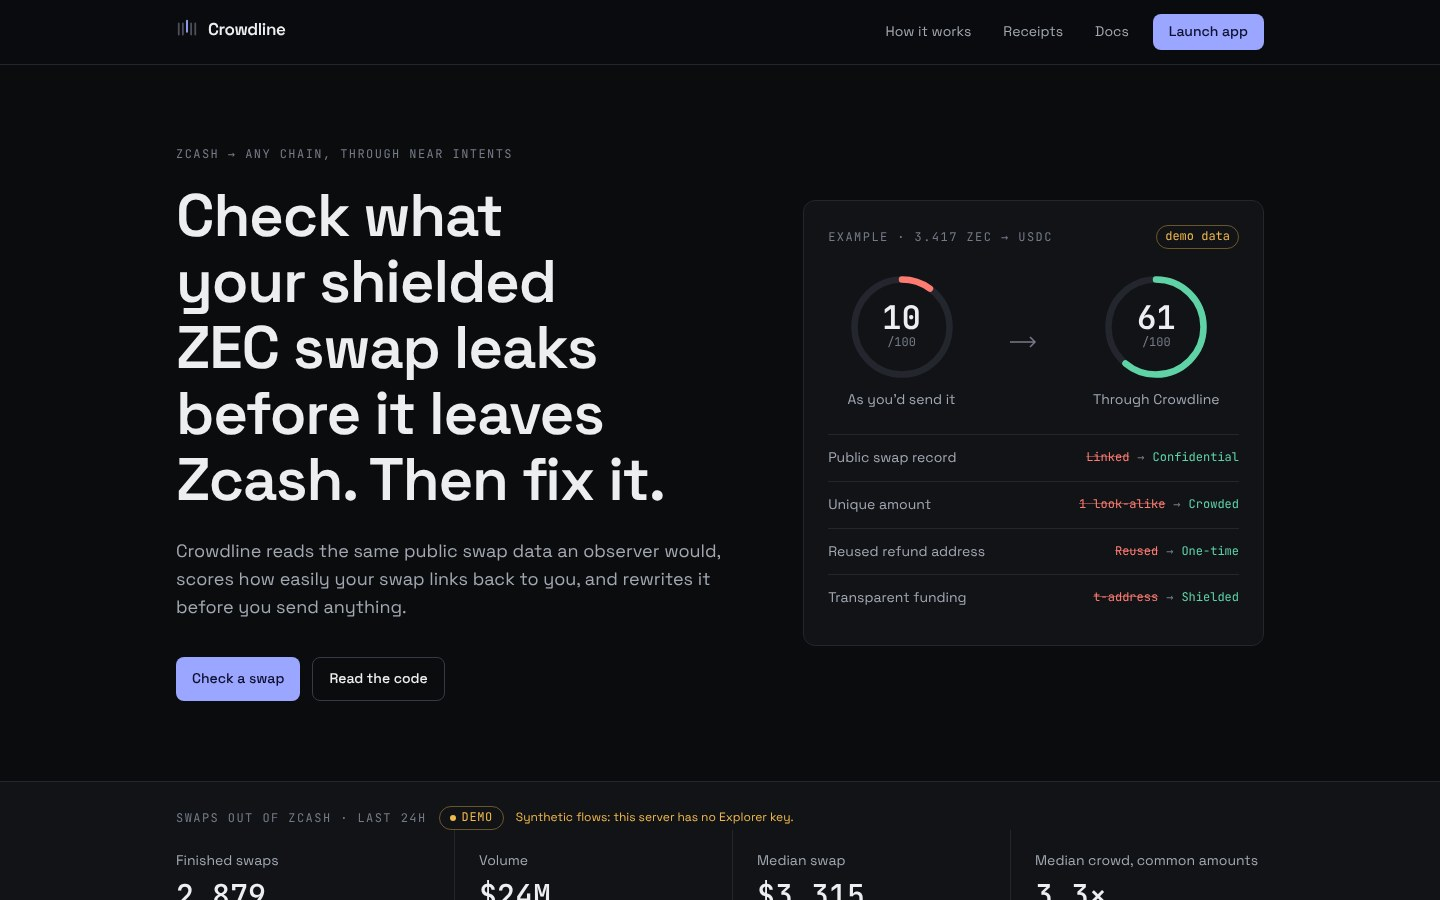
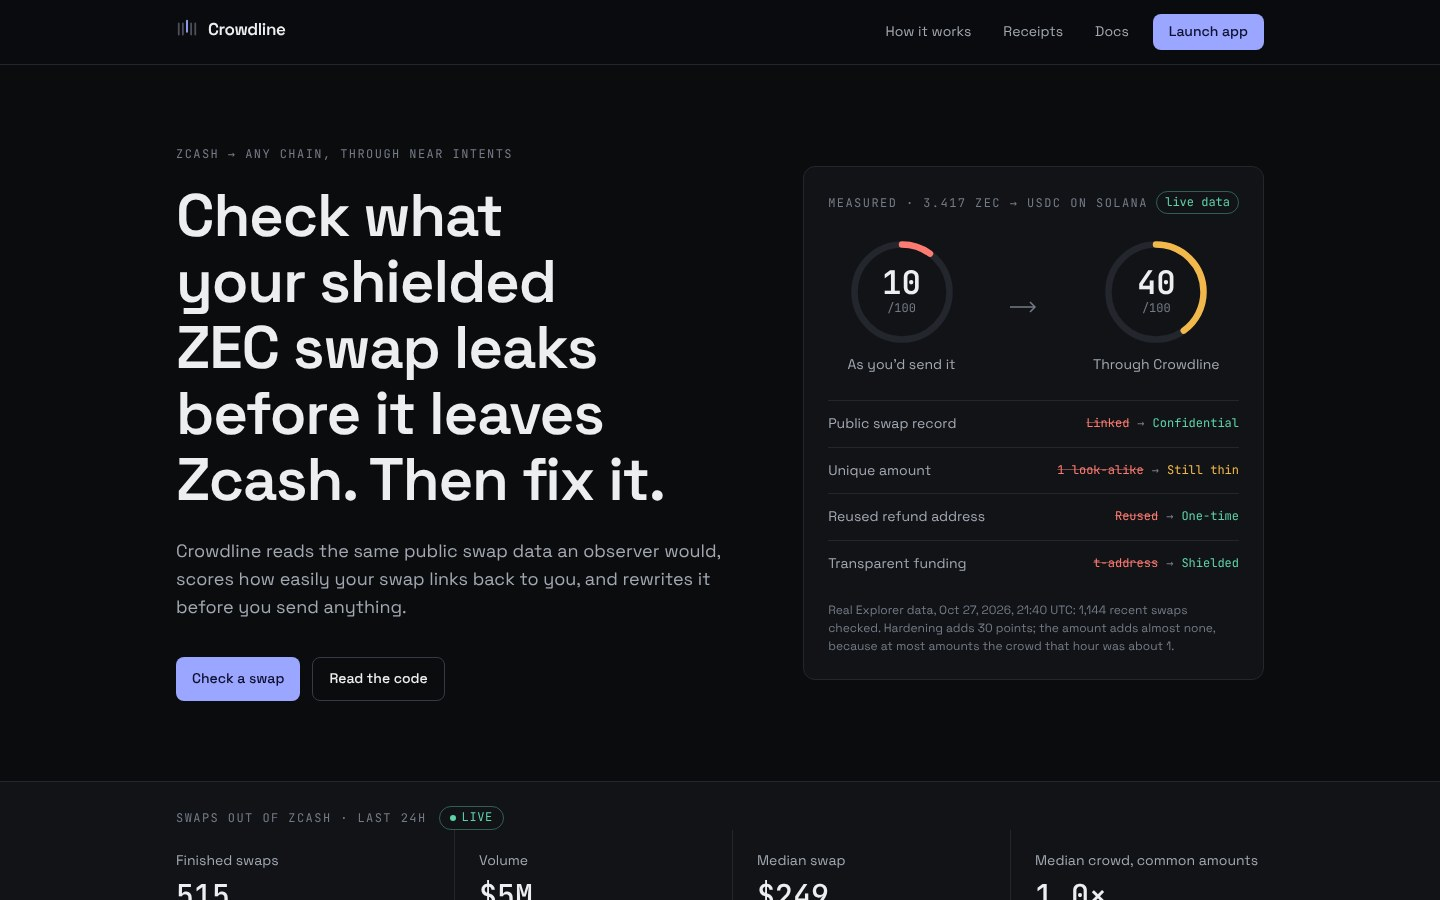
Show live measured numbers and the live URL

diff --git a/apps/web/src/pages/Landing.tsx b/apps/web/src/pages/Landing.tsx
@@ -21,7 +21,8 @@ const LEAKS = [
     body: "Your deposit and payout land minutes apart at almost the same dollar value. If nobody else swapped that much, it was you.",
     fix: "Send a crowded amount; keep the rest shielded.",
     before: "1 look-alike",
-    after: "Crowded",
+    after: "Still thin",
+    afterTone: "warn",
   },
   {
     n: "03",
@@ -45,9 +46,9 @@ function HeroVisual() {
   return (
     <Card className="relative overflow-hidden p-5 sm:p-6">
       <div className="flex items-center justify-between">
-        <span className="eyebrow">Example · 3.417 ZEC → USDC</span>
-        <span className="num shrink-0 rounded-full border border-warn/40 px-2 py-0.5 text-xs whitespace-nowrap text-warn">
-          demo data
+        <span className="eyebrow">Measured · 3.417 ZEC → USDC on Solana</span>
+        <span className="num shrink-0 rounded-full border border-good/40 px-2 py-0.5 text-xs whitespace-nowrap text-good">
+          live data
         </span>
       </div>
       <div className="mt-6 flex items-center justify-around gap-4">
@@ -60,7 +61,7 @@ function HeroVisual() {
             strokeWidth="1.5"
           />
         </svg>
-        <ScoreDial score={61} tone="good" size={108} label="Through Crowdline" />
+        <ScoreDial score={40} tone="warn" size={108} label="Through Crowdline" />
       </div>
       <ul className="mt-6 divide-y divide-line border-t border-line p-0">
         {LEAKS.map((l) => (
@@ -73,11 +74,16 @@ function HeroVisual() {
             >
               <span className="text-bad line-through decoration-bad/50">{l.before}</span>
               <span className="text-faint">→</span>
-              <span className="text-good">{l.after}</span>
+              <span className={l.afterTone === "warn" ? "text-warn" : "text-good"}>{l.after}</span>
             </span>
           </li>
         ))}
       </ul>
+      <p className="mt-4 mb-0 text-xs text-faint">
+        Real Explorer data, Oct 27, 2026, 21:40 UTC: 1,144 recent swaps checked. Hardening adds 30
+        points; the amount adds almost none, because at most amounts the crowd that hour was about
+        1.
+      </p>
     </Card>
   );
 }

diff --git a/apps/web/src/lib/links.ts b/apps/web/src/lib/links.ts
@@ -1,5 +1,6 @@
 /** Outbound links in one place, so the video link is a one-line change. */
 export const LINKS = {
+  app: "https://crowdline-chi.vercel.app",
   repo: "https://github.com/softalpha0/crowdline",
   docs: "https://github.com/softalpha0/crowdline#readme",
   evidence: "https://github.com/softalpha0/crowdline/tree/main/evidence",

diff --git a/README.md b/README.md
@@ -14,7 +14,7 @@ you pay straight from your shielded balance. It never holds funds.
 [![Crowdline](docs/demo-poster.jpg)](#crowdline)
 
 - **Demo video:** _added after recording_
-- **Live app:** _added after deploy_
+- **Live app:** https://crowdline-chi.vercel.app
 - **Verified mainnet run:** [`evidence/`](evidence/)
 - **Docs:** [threat model](docs/threat-model.md) · [scoring](docs/scoring.md) ·
   [architecture](docs/architecture.md) · [submission](docs/submission.md)
@@ -72,10 +72,17 @@ All of it is public data. None of it needs a subpoena.
 | **Execute** | Requests a 1Click quote with `confidentiality: "basic"`, exact input and the one-time refund, verifies 1Click's signature, and shows a ZIP-321 QR.   |
 | **Prove**   | Tracks the swap to the payout and gives you a receipt with the before and after scores and the signed quote. `/receipt` verifies it later.           |
 
-On demo data, a typical swap (3.417 ZEC to USDC on Solana, public mode, reused refund address,
-funded from a reused t-address) scores **10/100**. The same swap through Crowdline scores
-**61/100**: 3 ZEC goes out, 0.417 stays shielded. Live numbers depend on the hour and are in the
-[mainnet run](#the-verified-mainnet-run).
+Measured on the live site against real Explorer data (Oct 27, 2026, about 21:40 UTC, 1,144 recent
+swaps checked): a typical swap of 3.417 ZEC to USDC on Solana, in public mode with a reused refund
+address and funded from a reused t-address, scores **10/100**. Through Crowdline it scores
+**40/100**. Confidential mode, the one-time refund address and shielded funding add 30 points. The
+amount adds almost nothing: that hour only about 0.08 Zcash deposits and 0.04 USDC-on-Solana
+payouts per hour fell within ±1% of any one amount, so the best crowd was about 1. That is the
+"thin market" limit, measured rather than assumed. The same 24 hours held 511 finished swaps out
+of Zcash worth $4.96M, median $249 (`GET /api/stats`).
+
+On the synthetic demo flows (no Explorer key) the same swap goes from 10 to 61, because the demo
+market is busier than the real one.
 
 ## Try it in a minute
 
@@ -304,7 +311,7 @@ Invoke-RestMethod "https://1click.chaindefuser.com/v0/status?depositAddress=<DEP
 
 Phone (375px): [landing](docs/screens/landing-375.png) · [describe](docs/screens/app-describe-375.png) ·
 [audit](docs/screens/app-audit-375.png) · [refund](docs/screens/app-refund-375.png) ·
-[receipt](docs/screens/receipt-375.png). Screens show demo crowd data.
+[receipt](docs/screens/receipt-375.png). Screens show live crowd data, captured Oct 27, 2026.
 
 ## Tech stack
 
@@ -352,7 +359,7 @@ pnpm dev              # API on :8787, app on http://localhost:5173
 | `ONECLICK_API_KEY` | Confidential quotes. Without it the quote step is switched off.  | same, Distribution Channel key                                               |
 
 Production, any Node host: `pnpm build` then `pnpm start` serves the site and the API on one port
-(`PORT`, default 8787). `render.yaml` does this on Render.
+(`PORT`, default 8787).
 
 Vercel: `pnpm build:vercel` writes `.vercel/output` (Build Output API): the site as static files and
 `/api/*` as one Node function. Import the repo in Vercel, keep the settings from `vercel.json`, and
@@ -398,7 +405,6 @@ crowdline/
 ├── evidence/         mainnet receipts and transaction links
 ├── scripts/          vercel-build.mjs (Build Output API)
 ├── vercel.json       Vercel deploy
-├── render.yaml       one-service deploy on Render
 └── .github/workflows/ci.yml
 ```
 

diff --git a/docs/submission.md b/docs/submission.md
@@ -7,7 +7,7 @@
 | Project name    | Crowdline                                                      |
 | Track           | Cross-chain                                                    |
 | Code repository | https://github.com/softalpha0/crowdline                        |
-| Working demo    | _live URL, added after deploy_                                 |
+| Working demo    | https://crowdline-chi.vercel.app                               |
 | Demo video      | _added after recording (two minutes, per the submission form)_ |
 | Public repo     | Public by Oct 28, 2026 (the form's required checkbox)          |
 
@@ -51,7 +51,7 @@ form's prompt in order: what it does, why it does not leak, what is real and wha
 ## Links
 
 - Repo: https://github.com/softalpha0/crowdline
-- Live app: _after deploy_
+- Live app: https://crowdline-chi.vercel.app
 - Video: _after recording_
 - Evidence: https://github.com/softalpha0/crowdline/tree/main/evidence
 

diff --git a/docs/architecture.md b/docs/architecture.md
@@ -66,7 +66,7 @@ destination. `/api/stats` is one query, cached for five minutes.
 
 ## Hosting
 
-On a single Node host (`pnpm start`, or Render via `render.yaml`) one process serves everything,
+On a single Node host (`pnpm start`) one process serves everything,
 so the caches and the Explorer queue are shared by every visitor. On Vercel the site is static and
 `/api/*` runs as one Node function (`apps/server/src/vercel.ts`, bundled by
 `scripts/vercel-build.mjs`). Each warm instance keeps its own caches and queue, so under parallel
